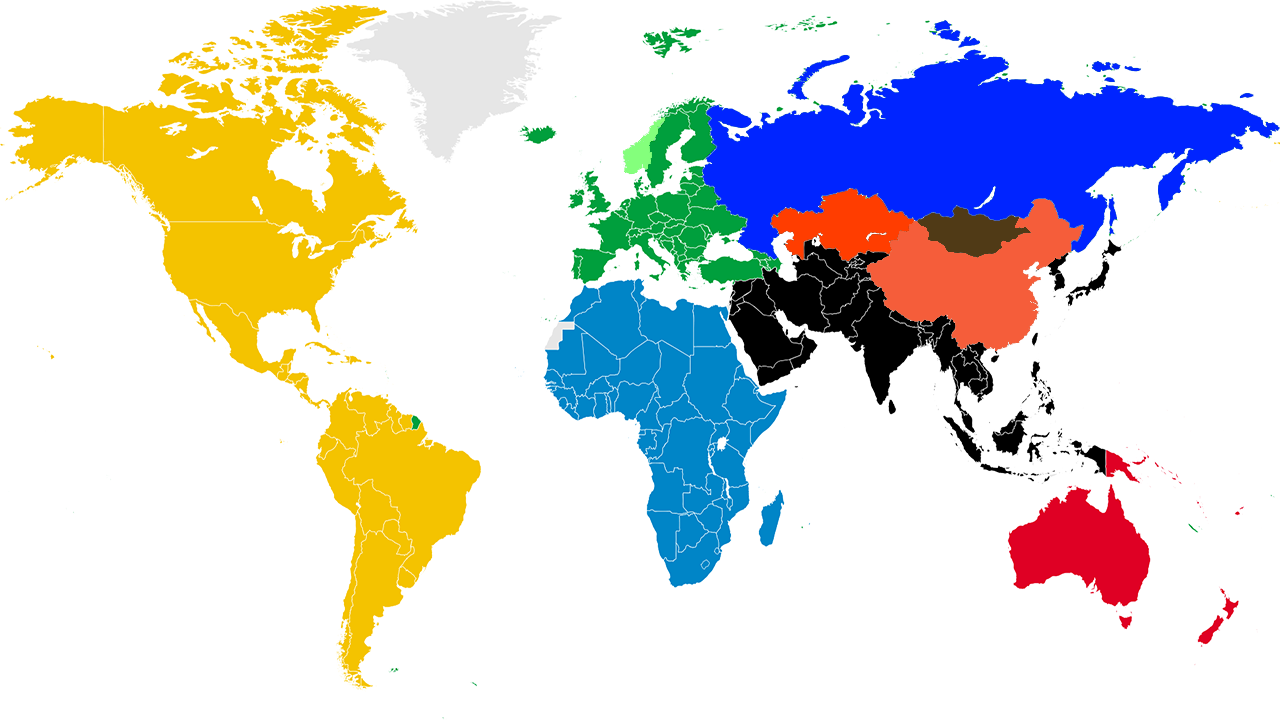
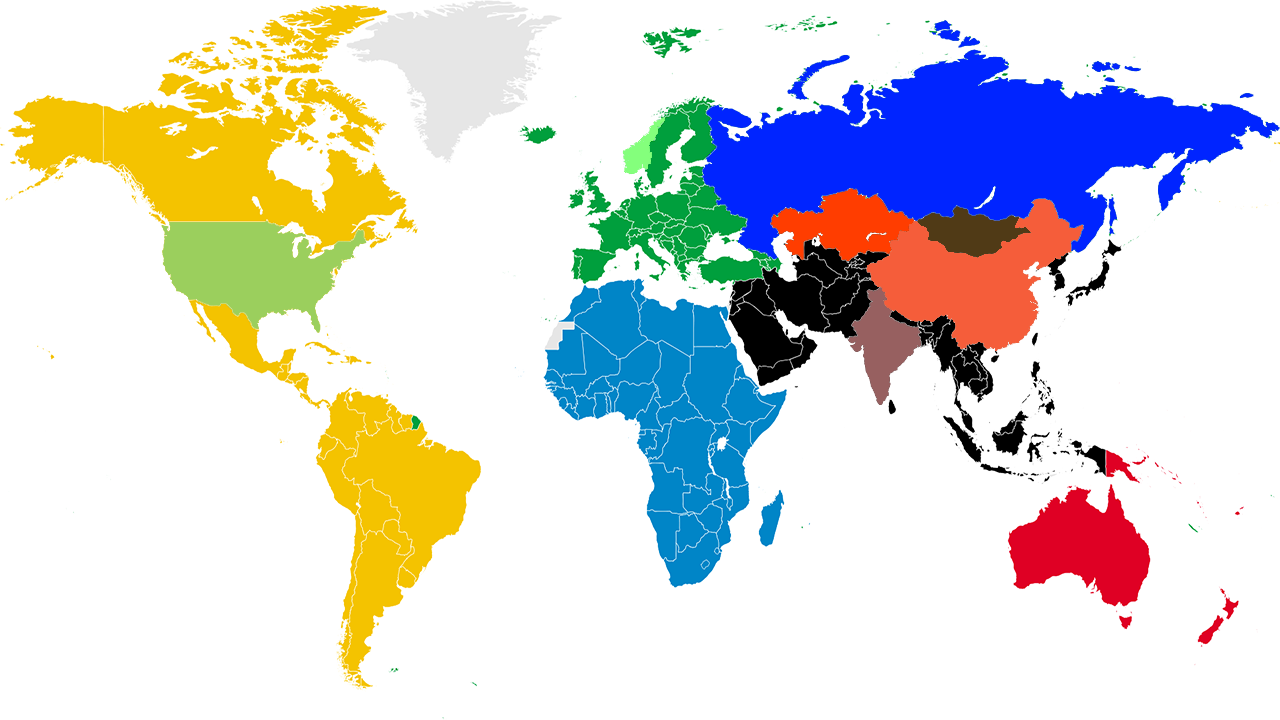
Added the USA and India to the map.

Changed region(s): [[0.125, 0.3056, 0.2812, 0.4583], [0.6562, 0.3972, 0.7188, 0.55]]

diff --git a/WorldSim/Game1.cs b/WorldSim/Game1.cs
@@ -20,11 +20,12 @@ namespace WorldSim
         const uint russia = 4294910976;
         const uint norway = 4107724238;
         const uint australia = 4280549599;
-        const uint usa = 4278240244;
         const uint mongolia = 4279646800;
         const uint china = 4282015221;
         const uint kazakhstan = 4278205951;
-        private Texture2D[] t2dCountries = new Texture2D[5];
+        const uint india = 4284506263;
+        const uint usa = 4284338075;
+        private Texture2D[] t2dCountries = new Texture2D[7];
         private int iCountryToHilight = -1;
         private int gameDays;
         private int gameYears = 2000;
@@ -67,7 +68,9 @@ namespace WorldSim
         Country Mongolia;
         Country China;
         Country Kazakhstan;
-
+        Country India;
+        Country USA;
+        
         public Game1()
         {
             graphics = new GraphicsDeviceManager(this);
@@ -83,11 +86,15 @@ namespace WorldSim
             Mongolia = new Country("Mongolia", 2397000);
             China = new Country("China", 100000000);
             Kazakhstan = new Country("Kazakhstan", 1488000);
+            India = new Country("India", 140000000);
+            USA = new Country("USA", 282000000);
             countries.Add(Australia);
             countries.Add(Russia);
             countries.Add(Mongolia);
             countries.Add(China);
             countries.Add(Kazakhstan);
+            countries.Add(India);
+            countries.Add(USA);
             rand = new Random();
         }
 
@@ -109,6 +116,8 @@ namespace WorldSim
             t2dCountries[2] = Content.Load<Texture2D>("Countries/map_MN");
             t2dCountries[3] = Content.Load<Texture2D>("Countries/map_CN");
             t2dCountries[4] = Content.Load<Texture2D>("Countries/map_KZ");
+            t2dCountries[5] = Content.Load<Texture2D>("Countries/map_IN");
+            t2dCountries[6] = Content.Load<Texture2D>("Countries/map_US");
             UI.LoadContent(this);
         }
 
@@ -140,7 +149,10 @@ namespace WorldSim
                 case mongolia: selectedCountry = Mongolia; iCountryToHilight = 2; break;
                 case china: selectedCountry = China; iCountryToHilight = 3; break;
                 case kazakhstan: selectedCountry = Kazakhstan; iCountryToHilight = 4; break;
+                case india: selectedCountry = India; iCountryToHilight = 5; break;
+                case usa: selectedCountry = USA; iCountryToHilight = 6; break;
             }
+            Console.WriteLine(sCountry);
             Days = (int)gameTime.TotalGameTime.TotalSeconds;
             UI.Update();
 

diff --git a/WorldSim/UserInterface.cs b/WorldSim/UserInterface.cs
@@ -15,7 +15,7 @@ namespace WorldSim
         private Texture2D uiTextureNoCountry;
         private Texture2D currentFlag;
         private Country selectedCountry;
-        private Texture2D[] flags = new Texture2D[5];
+        private Texture2D[] flags = new Texture2D[7];
         private Button[] buttons = new Button[4];
         private SciencePanel sciencePanel;
         private DiseasePanel diseasePanel;
@@ -29,6 +29,8 @@ namespace WorldSim
             flags[2] = game.Content.Load<Texture2D>("UI/Flags/flag_MN");
             flags[3] = game.Content.Load<Texture2D>("UI/Flags/flag_CN");
             flags[4] = game.Content.Load<Texture2D>("UI/Flags/flag_KZ");
+            flags[5] = game.Content.Load<Texture2D>("UI/Flags/flag_IN");
+            flags[6] = game.Content.Load<Texture2D>("UI/Flags/flag_US");
             buttons[0] = new Button(new Rectangle(1043, 645, 35, 35), "UI/Icons/infectionAlert_amber", "Amber Disease Alert");
             buttons[1] = new Button(new Rectangle(1043, 685, 35, 35), "UI/Icons/warAlert_red", "Red War Alert");
             buttons[2] = new Button(new Rectangle(330, 685, 20, 20), "UI/Icons/icon_happiness", "Happiness Icon");
@@ -37,10 +39,10 @@ namespace WorldSim
             buttons[1].ButtonActive = true;
             buttons[2].ButtonActive = true;
             buttons[3].ButtonActive = true;
-            sciencePanel = new SciencePanel("UI/Panels/sciencePanel", new Rectangle(0, 120, 300, 500));
+            sciencePanel = new SciencePanel("UI/Panels/sciencePanel", new Rectangle(20, 120, 300, 500));
             sciencePanel.LoadContent(game);
             sciencePanel.IsEnabled = false;
-            diseasePanel = new DiseasePanel("UI/Panels/diseasePanel", new Rectangle(0, 120, 300, 500));
+            diseasePanel = new DiseasePanel("UI/Panels/diseasePanel", new Rectangle(20, 120, 300, 500));
             diseasePanel.LoadContent(game);
             diseasePanel.IsEnabled = false;
             foreach (Button button in buttons)
@@ -70,6 +72,8 @@ namespace WorldSim
                 case "Mongolia": currentFlag = flags[2]; break;
                 case "China": currentFlag = flags[3]; break;
                 case "Kazakhstan": currentFlag = flags[4]; break;
+                case "India": currentFlag = flags[5]; break;
+                case "USA": currentFlag = flags[6]; break;
             }
             spriteBatch.Draw(uiTexture, new Rectangle(0, 0, 1280, 720), Color.White);
             spriteBatch.Draw(dateTexture, new Rectangle(0, 0, 1280, 720), Color.White);
